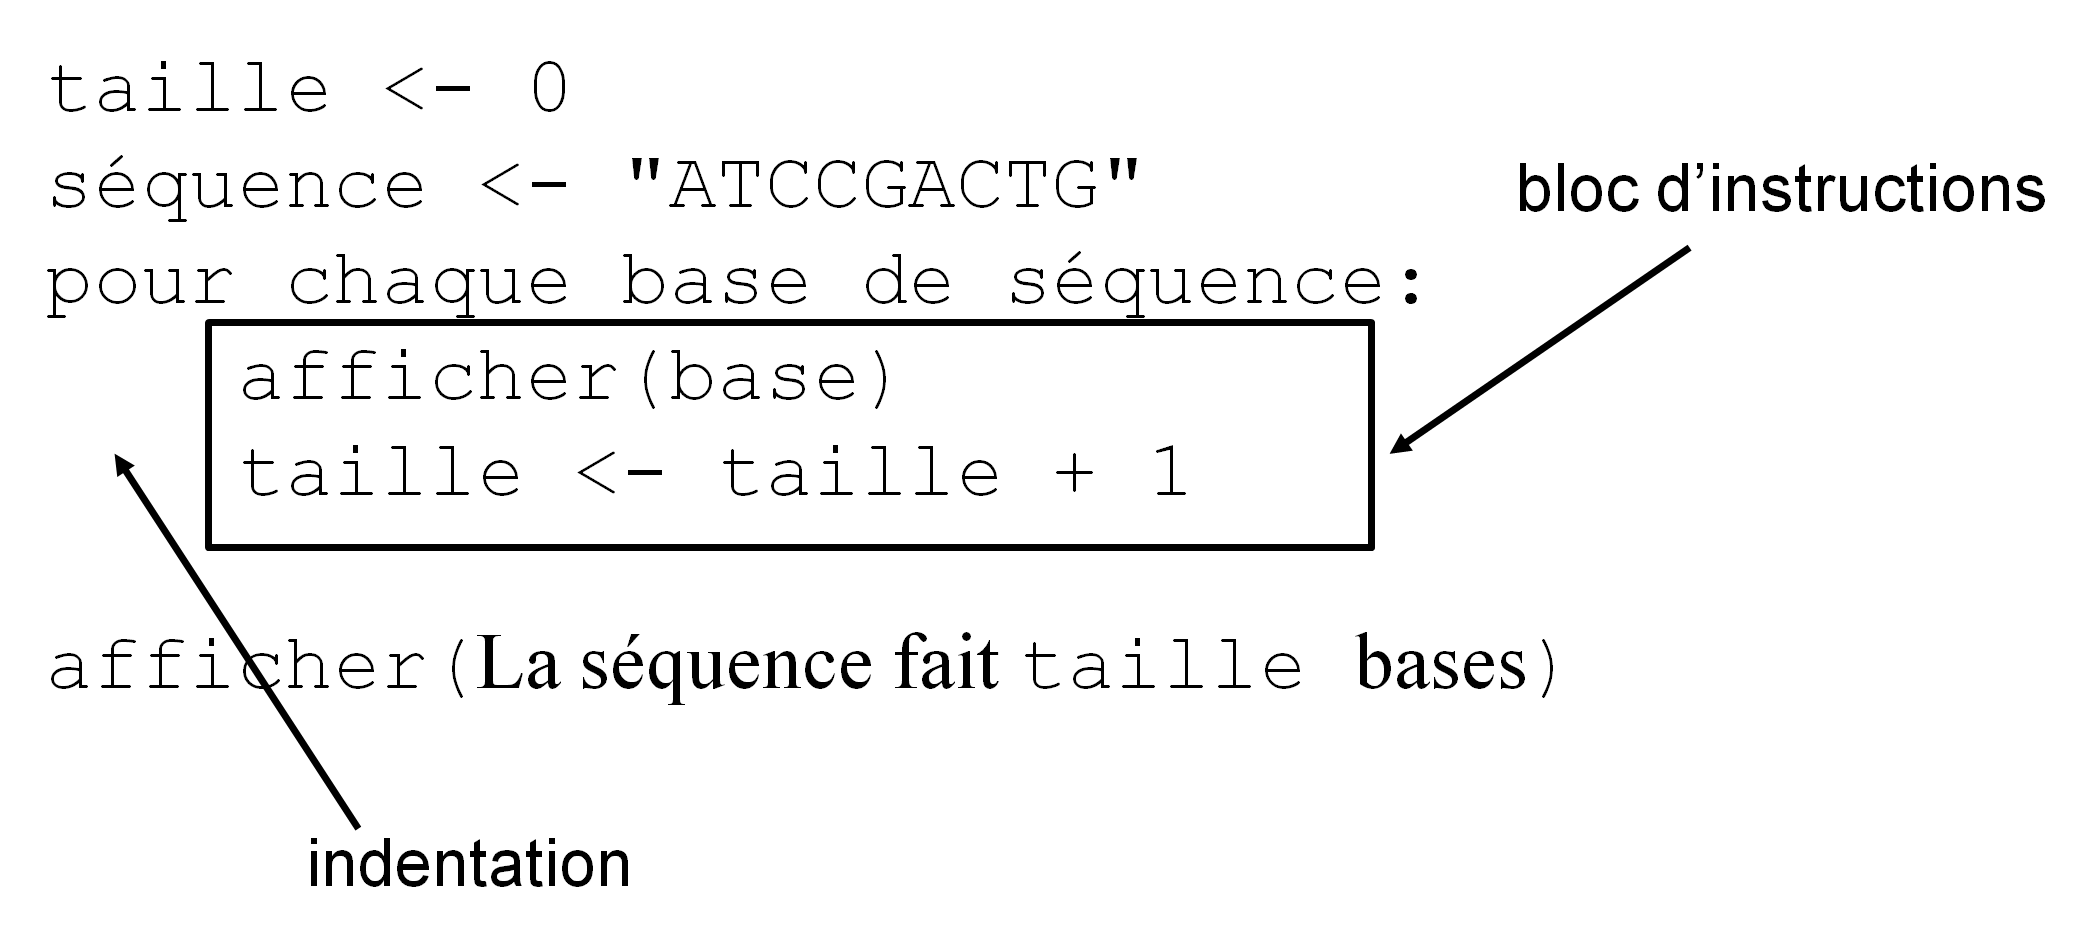
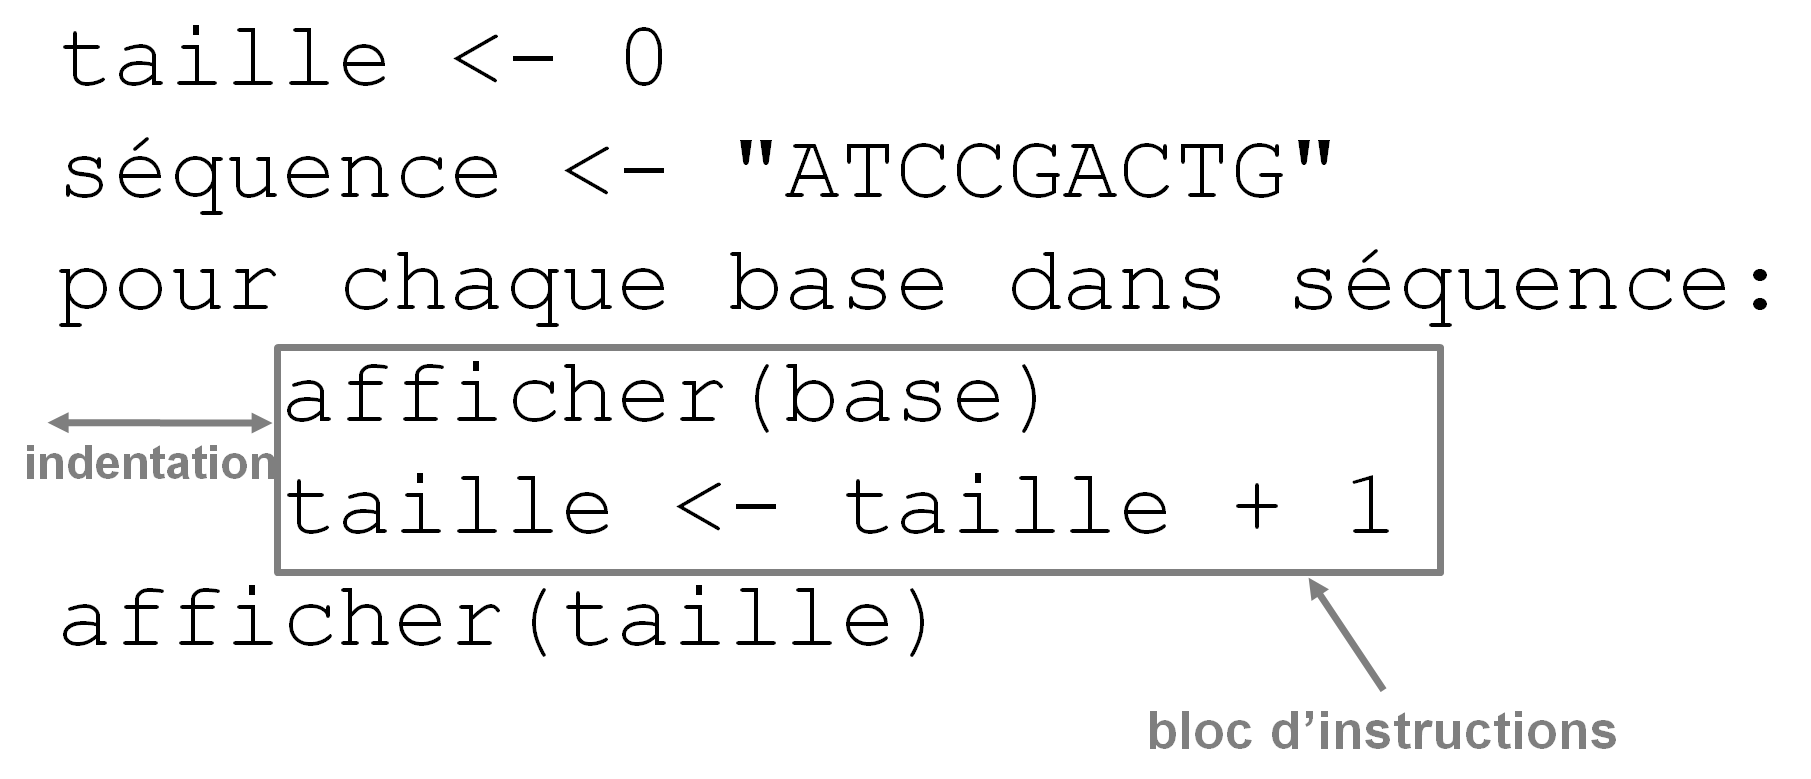
Indentation et bloc d'instructions

diff --git a/01_introduction.md b/01_introduction.md
@@ -174,7 +174,7 @@ close-box-rem
 
 ## Notion de bloc d'instructions et d'indentation
 
-En programmation, il est courant de répéter un certain nombre de choses (avec les boucles, voir le chapitre 5 *Boucles et comparaisons*) ou de faire des choix (avec les tests, voir le chapitre 6 *Tests*).
+En programmation, il est courant de répéter un certain nombre de choses (avec les boucles, voir le chapitre 5 *Boucles et comparaisons*) ou d'exécuter plusieurs instructions si une condition est vraie (avec les tests, voir le chapitre 6 *Tests*).
 
 Par exemple, imaginons que nous souhaitions compter toutes les bases d'une séquence, afficher chacune de ces bases, puis d'afficher le nombre de bases à la fin. Nous pourrions utiliser l'algorithme présenté en pseudo-code dans la figure @fig:indentation_bloc_instructions.
 
@@ -182,7 +182,7 @@ Par exemple, imaginons que nous souhaitions compter toutes les bases d'une séqu
 
 Donc pour chaque base de la séquence nous souhaitons effectuer deux actions : i) afficher la base, et ii) compter une base de plus. Pour indiquer cela, on décalera ces deux instructions par rapport à la ligne précédente (contenant `Pour chaque base[...]`). Ce décalage est applé **indentation**, et l'ensemble des lignes indentées constitue un **bloc d'instructions**.
 
-Une fois qu'on aura réalisé ces deux actions sur chaque base, on pourra passer à la suite, c'est-à-dire afficher le résultat. Pour bien préciser que cet affichage se fait à la fin, donc une fois le comptage terminé, la ligne correspondante n'est pas indentée (c'est à dire pas décalée de quelques espaces).
+Une fois qu'on aura réalisé ces deux actions sur chaque base, on pourra passer à la suite, c'est-à-dire afficher la taille de la séquence. Pour bien préciser que cet affichage se fait à la fin, donc une fois le comptage et l'affichage de chaque base terminés, la ligne correspondante n'est pas indentée (c'est à dire pas décalée de quelques espaces).
 
 Pratiquement, l'indentation en Python doit être homogène (soit des espaces, soit des tabulations, mais pas un mélange des deux). Une indentation avec 4 espaces est le style d'indentation recommandé (voir le chapitre 15 *Bonnes pratiques en programmation Python*).
  
